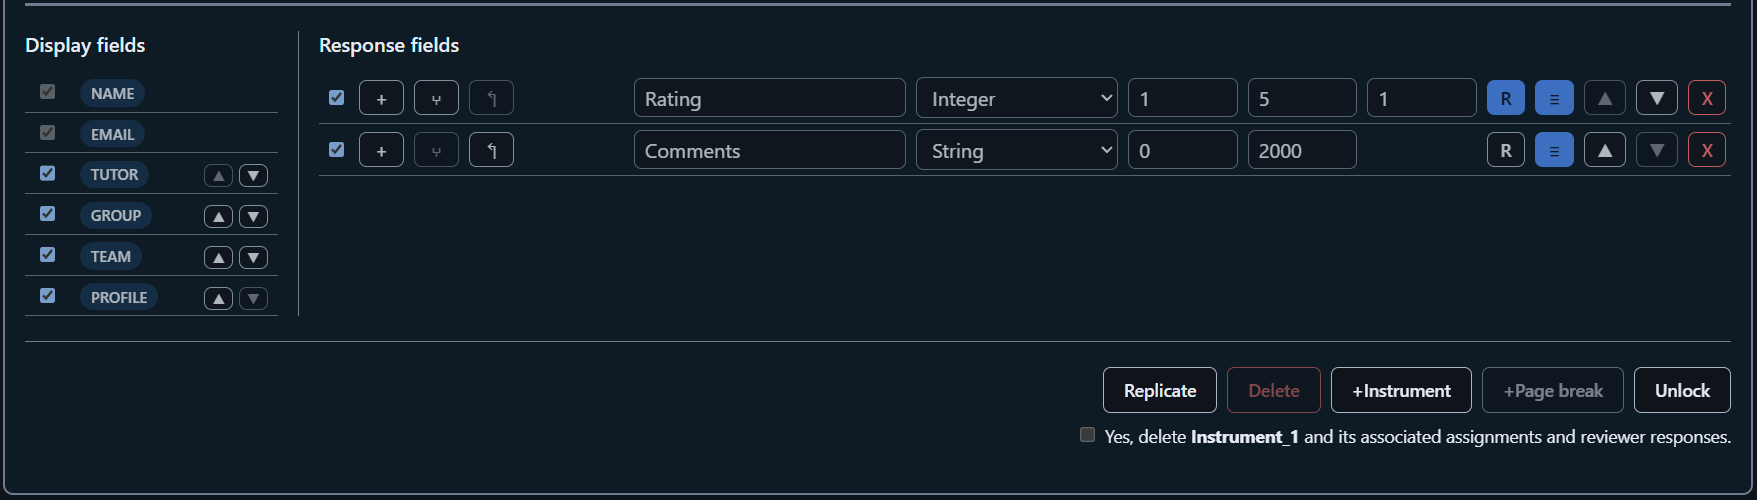
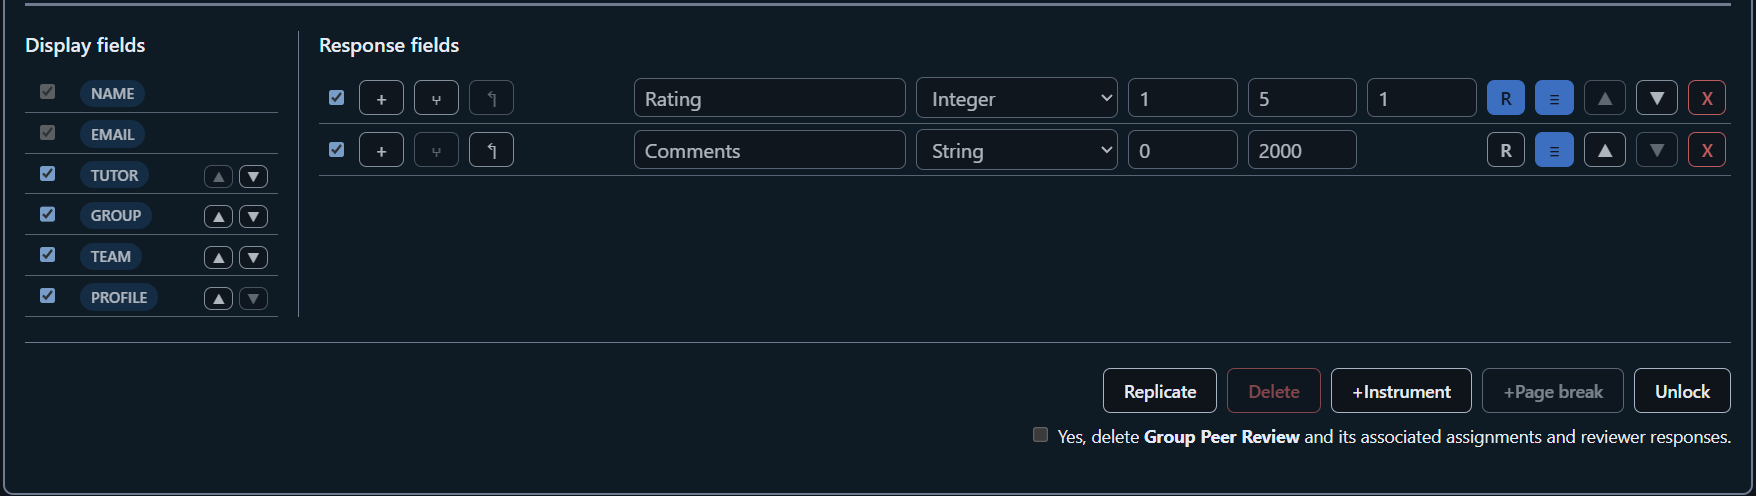
19T Item 16 entry 7: the fields capture retaken too
The author's Guide_v4b4 pair replaces instrument-card-fields-and-visibility
and its dark half, whose delete line named Instrument_1 where the
walkthrough's other captures name the instrument "Group Peer Review".
Both halves one screen; the alt text names no instrument and stands.

Claude-Session: https://claude.ai/code/session_0116Ns1HgCKeKutgZT3Tje64

diff --git a/guide/segment_19T_advanced_instruments.md b/guide/segment_19T_advanced_instruments.md
@@ -2618,9 +2618,11 @@ item of their own. It closes when the author says so.
    show no intro and nothing else from entries 3–6 (the Settings page,
    the password box and a focused file input have no capture). **Read:**
    one `diff-reviewer` read; the pair is one screen and the alt text true
-   of both; it reworded the old capture's "#1", and noted, out of scope,
-   that `instrument-card-fields-and-visibility`'s delete line names
-   `Instrument_1` where the other captures name "Group Peer Review".
+   of both; it reworded the old capture's "#1", and noted that
+   `instrument-card-fields-and-visibility`'s delete line named
+   `Instrument_1` where the other captures name "Group Peer Review". The
+   author retook that pair too (`Guide_v4b4`): one screen, the delete line
+   now "Group Peer Review"; its alt text names no instrument and stands.
 
 ### Doc impact
 
